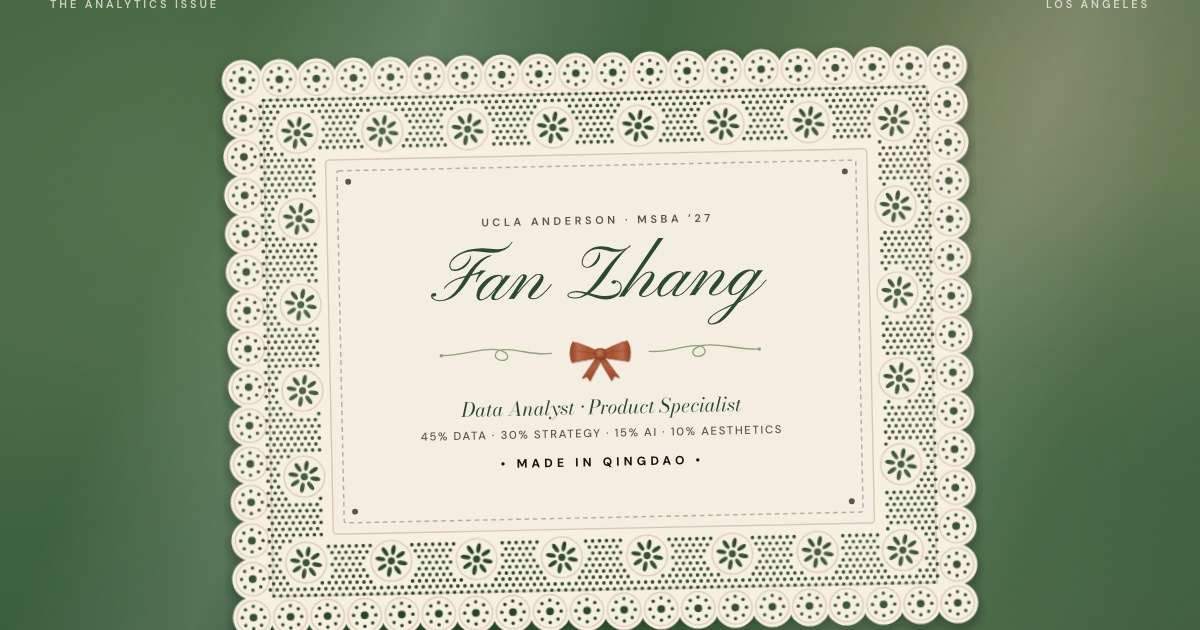
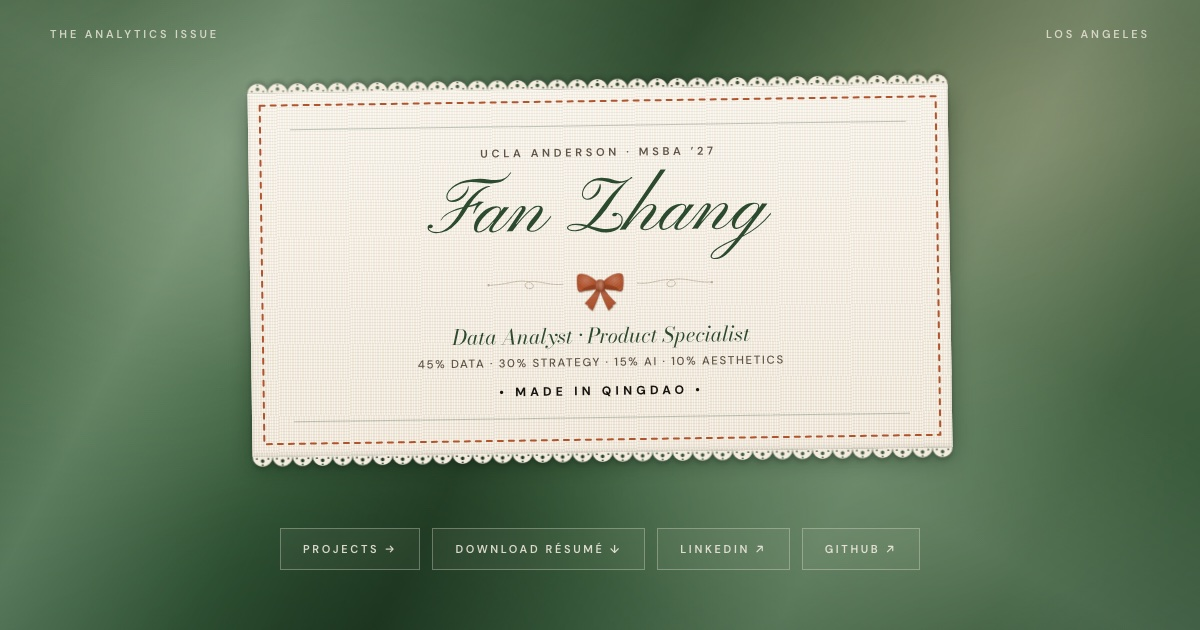
Cover: sewn-in clothing label, embroidered bow, satin background

diff --git a/index.html b/index.html
@@ -234,10 +234,10 @@ box-shadow:inset 0 1px 0 rgba(255,255,255,.35),inset 0 -1px 0 rgba(255,255,255,.
 .cover4 .casting3{margin:0}.cover4>*{min-width:0}.cover4 .ctas{display:flex;flex-wrap:wrap;row-gap:14px}
 @media (max-width:600px){.t-top{font-size:2.5cqw}.t-name{width:70%}.t-doing{font-size:3.05cqw}.t-comp{font-size:2.6cqw;letter-spacing:.08em;line-height:1.35;max-width:62cqw}.t-made{font-size:2.6cqw}.panel{gap:1.2cqw}}
 @media (max-width:900px){.cover4{grid-template-columns:1fr;gap:28px}.tag{transform:none}.satin{padding-bottom:40px}}
-.cbtns{display:flex;justify-content:center;flex-wrap:wrap;gap:12px;margin-top:40px}
+.cbtns{display:flex;justify-content:center;flex-wrap:wrap;gap:12px;margin-top:76px}
 .cbtns a{text-decoration:none;color:rgba(244,237,225,.88);font:600 11px var(--sans);letter-spacing:.24em;text-transform:uppercase;padding:13px 22px;border:1px solid rgba(244,237,225,.32);background:rgba(244,237,225,.05);backdrop-filter:blur(2px);transition:background .2s,border-color .2s,color .2s}
 .cbtns a:hover{background:rgba(244,237,225,.14);border-color:rgba(244,237,225,.6);color:#fbf6ee}
-@media (max-width:600px){.cbtns{gap:10px;margin-top:28px}.cbtns a{padding:11px 14px;letter-spacing:.16em;font-size:10px}}
+@media (max-width:600px){.cbtns{gap:10px;margin-top:48px}.cbtns a{padding:11px 14px;letter-spacing:.16em;font-size:10px}}
 .sum4{border-top:1px solid var(--ink);border-bottom:1px solid var(--ink);padding:16px 0 20px}
 .sum4 .kick{display:block;color:var(--terra);margin-bottom:12px}
 .sum4 p{font:400 23px/1.55 var(--body);margin:0 0 10px}.sum4 p.by{font:italic 400 18px var(--body);color:var(--soft);margin:0}
@@ -259,34 +259,52 @@ box-shadow:inset 0 1px 0 rgba(255,255,255,.35),inset 0 -1px 0 rgba(255,255,255,.
 .fb .send{cursor:pointer;background:var(--paper);color:var(--ink);border:0;padding:14px 26px;font:700 11px var(--sans);letter-spacing:.22em;text-transform:uppercase}
 .fb .send:disabled{opacity:.6;cursor:default}
 .contact .fb .fbs{font:italic 400 17px var(--body);margin:14px 0 0;min-height:1.4em;opacity:.85}
+.tag.t2{aspect-ratio:auto;width:min(700px,92%);margin:48px auto 4px;transform:rotate(-.8deg)}
+.t2 .label{position:relative;padding:5.2cqw 6cqw 4.8cqw;background-color:#f4ede1;
+background-image:repeating-linear-gradient(0deg,rgba(94,84,70,.07) 0 1px,transparent 1px 3px),repeating-linear-gradient(90deg,rgba(255,255,255,.5) 0 1px,transparent 1px 2.5px),linear-gradient(180deg,#f7f1e6,#efe6d6);
+box-shadow:0 1px 0 rgba(255,255,255,.6) inset,0 -2px 4px rgba(94,84,70,.12) inset,0 10px 22px rgba(10,24,12,.35),0 2px 4px rgba(10,24,12,.25)}
+.t2 .label::before,.t2 .label::after{content:'';position:absolute;left:0;right:0;height:12px;background:url(lace-trim.svg) repeat-x;background-size:20px 12px;filter:drop-shadow(0 3px 2px rgba(10,24,12,.25))}
+.t2 .label::after{top:100%}.t2 .label::before{bottom:100%;transform:scaleY(-1)}
+.t2 .stitch{position:absolute;inset:0;width:100%;height:100%;pointer-events:none;overflow:visible}
+.t2 .stitch rect{x:12px;y:12px;width:calc(100% - 24px);height:calc(100% - 24px);fill:none;stroke:#a8441a;stroke-width:2;stroke-dasharray:5 6;stroke-linecap:round;opacity:.9}
+.t2 .panel{position:relative;inset:auto;border-top:1px solid rgba(44,74,46,.28);border-bottom:1px solid rgba(44,74,46,.28);padding:2.6cqw 0;gap:1cqw}
+.t2 .t-top{font-size:1.6cqw}.t2 .t-name{width:56%}.t2 .orn{color:#b9ab93}.t2 .orn .fl{width:11cqw}.t2 .orn .bow{width:8cqw}
+.t2 .t-doing{font-size:3cqw}.t2 .t-comp{font-size:1.65cqw}.t2 .t-made{font-size:1.75cqw}
+@media (max-width:600px){.t2 .label{padding:7cqw 6cqw}.t2 .t-top,.t2 .t-comp,.t2 .t-made{font-size:2.7cqw}.t2 .t-doing{font-size:3.6cqw}.t2 .t-name{width:72%}.t2 .stitch rect{x:8px;y:8px;width:calc(100% - 16px);height:calc(100% - 16px)}}
+.satin::before{background:radial-gradient(ellipse 70% 60% at 30% 20%,rgba(255,255,255,.10),transparent 70%),linear-gradient(160deg,rgba(44,74,46,.66),rgba(52,88,58,.56) 50%,rgba(34,64,42,.7));box-shadow:none}
+.satin::after{content:'';position:absolute;inset:0;z-index:-1;pointer-events:none;mix-blend-mode:soft-light;
+background:linear-gradient(118deg,transparent 8%,rgba(255,255,255,.55) 20%,transparent 34%,rgba(0,0,0,.45) 46%,transparent 58%,rgba(255,255,255,.4) 72%,transparent 86%),
+linear-gradient(28deg,transparent 30%,rgba(255,255,255,.3) 48%,transparent 66%)}
+.satin{box-shadow:inset 0 0 160px rgba(10,24,12,.35)}
 </style></head><body id="top">
 <div class="strip"><a href="#top" class="wm"><img src="pinyon-1.svg" alt="Fan Zhang"></a><nav><a href="#letter">Editor’s letter</a><a href="#cv">The CV</a><a href="#features">Features</a><a href="#letters">Letters</a></nav><a class="lock" href="https://fan0729.github.io/classnotes/" title="Fan’s Personal Matters (private)">🔒 Personal matters</a></div>
 <header class="front4">
  <div class="satin"><div class="wrap">
   <div class="issue3 lt"><span>The Analytics Issue</span><span>Los Angeles</span></div>
-  <div class="tag"><img class="lace" src="lace.svg" alt="">
+  <div class="tag t2"><div class="label"><svg class="stitch" aria-hidden="true"><rect/></svg>
    <div class="panel">
     <span class="t-top">UCLA Anderson · MSBA ’27</span>
     <img class="t-name" src="pinyon-1.svg" alt="Fan Zhang">
-    <div class="orn"><svg class="fl" viewBox="0 0 120 24" aria-hidden="true"><path d="M2 12 C30 12 44 4 62 7 C76 10 74 20 64 18 C56 16 58 7 68 7 C86 7 98 14 118 12" fill="none" stroke="currentColor" stroke-width="1.4" stroke-linecap="round"/><circle cx="2" cy="12" r="1.8" fill="currentColor"/></svg><svg class="bow" viewBox="0 0 64 42" aria-hidden="true"><defs>
-<clipPath id="cL"><path d="M29.4 12.4 C23 9.4 14.4 5.4 9 4.6 C6.2 9.6 5.8 16.2 8 21.6 C15 20.6 23 18.9 29.4 18.4Z"/></clipPath><clipPath id="cT"><path d="M29.6 16.8 L33.4 18.4 C30.4 25 26.4 31.2 22.8 37.6 L20.5 33.6 L16.2 35.4 C20.4 29.4 25 23 29.6 16.8Z"/></clipPath><clipPath id="cK"><rect x="27.6" y="10.6" width="8.8" height="9" rx="3"/></clipPath>
-<linearGradient id="vL" x1="1" y1="0" x2="0" y2="0"><stop offset="0" stop-color="#3a1205" stop-opacity=".34"/><stop offset=".3" stop-color="#fff" stop-opacity=".04"/><stop offset=".7" stop-color="#fff" stop-opacity=".2"/><stop offset="1" stop-color="#3a1205" stop-opacity=".1"/></linearGradient>
-<linearGradient id="vT" x1="0" y1="0" x2="0" y2="1"><stop offset="0" stop-color="#3a1205" stop-opacity=".4"/><stop offset=".5" stop-color="#fff" stop-opacity=".1"/><stop offset="1" stop-color="#3a1205" stop-opacity=".1"/></linearGradient>
-<radialGradient id="vK" cx=".45" cy=".38" r=".7"><stop offset="0" stop-color="#fff" stop-opacity=".26"/><stop offset="1" stop-color="#3a1205" stop-opacity=".32"/></radialGradient>
-<filter id="emb" x="-15%" y="-15%" width="130%" height="140%"><feDropShadow dx=".3" dy=".8" stdDeviation=".5" flood-color="#2a1205" flood-opacity=".33"/></filter>
+    <div class="orn"><svg class="fl" viewBox="0 0 120 24" aria-hidden="true"><path d="M2 12 C30 12 44 4 62 7 C76 10 74 20 64 18 C56 16 58 7 68 7 C86 7 98 14 118 12" fill="none" stroke="currentColor" stroke-width="1.3" stroke-linecap="round" stroke-dasharray="2.4 1.8"/><circle cx="2" cy="12" r="1.8" fill="currentColor"/></svg><svg class="bow" viewBox="10 6 60 46" aria-hidden="true"><defs>
+<pattern id="pL" width="1.5" height="4" patternUnits="userSpaceOnUse" patternTransform="rotate(68)"><rect width="1.5" height="4" fill="#ad4620"/><rect width=".32" height="4" fill="#5e230b" fill-opacity=".55"/><rect x=".55" width=".5" height="4" fill="#f0a27a" fill-opacity=".38"/></pattern><pattern id="pF" width="1.5" height="4" patternUnits="userSpaceOnUse" patternTransform="rotate(30)"><rect width="1.5" height="4" fill="#ad4620"/><rect width=".32" height="4" fill="#5e230b" fill-opacity=".55"/><rect x=".55" width=".5" height="4" fill="#f0a27a" fill-opacity=".38"/></pattern><pattern id="pT" width="1.5" height="4" patternUnits="userSpaceOnUse" patternTransform="rotate(38)"><rect width="1.5" height="4" fill="#ad4620"/><rect width=".32" height="4" fill="#5e230b" fill-opacity=".55"/><rect x=".55" width=".5" height="4" fill="#f0a27a" fill-opacity=".38"/></pattern><pattern id="pK" width="1.3" height="4" patternUnits="userSpaceOnUse" patternTransform="rotate(0)"><rect width="1.3" height="4" fill="#ad4620"/><rect width=".32" height="4" fill="#5e230b" fill-opacity=".55"/><rect x=".55" width=".5" height="4" fill="#f0a27a" fill-opacity=".38"/></pattern>
+<radialGradient id="gL" cx=".45" cy=".35" r=".8"><stop offset="0" stop-color="#fff" stop-opacity=".22"/><stop offset=".6" stop-color="#fff" stop-opacity="0"/><stop offset="1" stop-color="#3a1205" stop-opacity=".3"/></radialGradient>
+<linearGradient id="gT" x1="0" y1="0" x2="0" y2="1"><stop offset="0" stop-color="#3a1205" stop-opacity=".42"/><stop offset=".45" stop-color="#fff" stop-opacity=".06"/><stop offset="1" stop-color="#3a1205" stop-opacity=".12"/></linearGradient>
+<radialGradient id="gK" cx=".45" cy=".4" r=".7"><stop offset="0" stop-color="#fff" stop-opacity=".25"/><stop offset="1" stop-color="#3a1205" stop-opacity=".35"/></radialGradient>
+<filter id="emb" x="-15%" y="-15%" width="130%" height="140%"><feDropShadow dx=".3" dy=".9" stdDeviation=".55" flood-color="#2a1205" flood-opacity=".35"/></filter>
 <g id="half">
-<g clip-path="url(#cT)"><rect width="64" height="42" fill="#a8441a"/><g stroke-width=".55"><line x1="32" y1="15" x2="27.55" y2="46.69" stroke="#933a17"/><line x1="32" y1="15" x2="26.99" y2="46.61" stroke="#c0603a"/><line x1="32" y1="15" x2="26.44" y2="46.51" stroke="#933a17"/><line x1="32" y1="15" x2="25.89" y2="46.41" stroke="#c0603a"/><line x1="32" y1="15" x2="25.35" y2="46.30" stroke="#933a17"/><line x1="32" y1="15" x2="24.80" y2="46.18" stroke="#c0603a"/><line x1="32" y1="15" x2="24.26" y2="46.05" stroke="#933a17"/><line x1="32" y1="15" x2="23.72" y2="45.91" stroke="#c0603a"/><line x1="32" y1="15" x2="23.18" y2="45.76" stroke="#933a17"/><line x1="32" y1="15" x2="22.64" y2="45.60" stroke="#c0603a"/><line x1="32" y1="15" x2="22.11" y2="45.43" stroke="#933a17"/><line x1="32" y1="15" x2="21.58" y2="45.26" stroke="#c0603a"/><line x1="32" y1="15" x2="21.06" y2="45.07" stroke="#933a17"/><line x1="32" y1="15" x2="20.53" y2="44.87" stroke="#c0603a"/><line x1="32" y1="15" x2="20.01" y2="44.67" stroke="#933a17"/><line x1="32" y1="15" x2="19.50" y2="44.46" stroke="#c0603a"/><line x1="32" y1="15" x2="18.98" y2="44.23" stroke="#933a17"/><line x1="32" y1="15" x2="18.48" y2="44.00" stroke="#c0603a"/><line x1="32" y1="15" x2="17.97" y2="43.76" stroke="#933a17"/><line x1="32" y1="15" x2="17.47" y2="43.51" stroke="#c0603a"/><line x1="32" y1="15" x2="16.98" y2="43.25" stroke="#933a17"/><line x1="32" y1="15" x2="16.49" y2="42.99" stroke="#c0603a"/><line x1="32" y1="15" x2="16.00" y2="42.71" stroke="#933a17"/><line x1="32" y1="15" x2="15.52" y2="42.43" stroke="#c0603a"/><line x1="32" y1="15" x2="15.04" y2="42.14" stroke="#933a17"/><line x1="32" y1="15" x2="14.57" y2="41.84" stroke="#c0603a"/><line x1="32" y1="15" x2="14.11" y2="41.53" stroke="#933a17"/><line x1="32" y1="15" x2="13.65" y2="41.21" stroke="#c0603a"/><line x1="32" y1="15" x2="13.19" y2="40.89" stroke="#933a17"/><line x1="32" y1="15" x2="12.74" y2="40.56" stroke="#c0603a"/><line x1="32" y1="15" x2="12.30" y2="40.22" stroke="#933a17"/><line x1="32" y1="15" x2="11.86" y2="39.87" stroke="#c0603a"/><line x1="32" y1="15" x2="11.43" y2="39.51" stroke="#933a17"/><line x1="32" y1="15" x2="11.01" y2="39.15" stroke="#c0603a"/><line x1="32" y1="15" x2="10.59" y2="38.78" stroke="#933a17"/><line x1="32" y1="15" x2="10.18" y2="38.40" stroke="#c0603a"/><line x1="32" y1="15" x2="9.77" y2="38.02" stroke="#933a17"/><line x1="32" y1="15" x2="9.37" y2="37.63" stroke="#c0603a"/><line x1="32" y1="15" x2="8.98" y2="37.23" stroke="#933a17"/><line x1="32" y1="15" x2="8.60" y2="36.82" stroke="#c0603a"/><line x1="32" y1="15" x2="8.22" y2="36.41" stroke="#933a17"/><line x1="32" y1="15" x2="7.85" y2="35.99" stroke="#c0603a"/><line x1="32" y1="15" x2="7.49" y2="35.57" stroke="#933a17"/><line x1="32" y1="15" x2="7.13" y2="35.14" stroke="#c0603a"/><line x1="32" y1="15" x2="6.78" y2="34.70" stroke="#933a17"/></g><path d="M29.6 16.8 L33.4 18.4 C30.4 25 26.4 31.2 22.8 37.6 L20.5 33.6 L16.2 35.4 C20.4 29.4 25 23 29.6 16.8Z" fill="url(#vT)"/></g>
-<g clip-path="url(#cL)"><rect width="64" height="42" fill="#a8441a"/><g stroke-width=".55"><line x1="32" y1="15" x2="6.02" y2="30.00" stroke="#933a17"/><line x1="32" y1="15" x2="5.81" y2="29.63" stroke="#c0603a"/><line x1="32" y1="15" x2="5.60" y2="29.26" stroke="#933a17"/><line x1="32" y1="15" x2="5.40" y2="28.88" stroke="#c0603a"/><line x1="32" y1="15" x2="5.21" y2="28.50" stroke="#933a17"/><line x1="32" y1="15" x2="5.02" y2="28.12" stroke="#c0603a"/><line x1="32" y1="15" x2="4.84" y2="27.74" stroke="#933a17"/><line x1="32" y1="15" x2="4.66" y2="27.35" stroke="#c0603a"/><line x1="32" y1="15" x2="4.49" y2="26.96" stroke="#933a17"/><line x1="32" y1="15" x2="4.32" y2="26.57" stroke="#c0603a"/><line x1="32" y1="15" x2="4.16" y2="26.18" stroke="#933a17"/><line x1="32" y1="15" x2="4.00" y2="25.78" stroke="#c0603a"/><line x1="32" y1="15" x2="3.85" y2="25.38" stroke="#933a17"/><line x1="32" y1="15" x2="3.71" y2="24.98" stroke="#c0603a"/><line x1="32" y1="15" x2="3.57" y2="24.58" stroke="#933a17"/><line x1="32" y1="15" x2="3.44" y2="24.18" stroke="#c0603a"/><line x1="32" y1="15" x2="3.31" y2="23.77" stroke="#933a17"/><line x1="32" y1="15" x2="3.19" y2="23.36" stroke="#c0603a"/><line x1="32" y1="15" x2="3.07" y2="22.95" stroke="#933a17"/><line x1="32" y1="15" x2="2.96" y2="22.54" stroke="#c0603a"/><line x1="32" y1="15" x2="2.86" y2="22.13" stroke="#933a17"/><line x1="32" y1="15" x2="2.76" y2="21.72" stroke="#c0603a"/><line x1="32" y1="15" x2="2.67" y2="21.30" stroke="#933a17"/><line x1="32" y1="15" x2="2.58" y2="20.88" stroke="#c0603a"/><line x1="32" y1="15" x2="2.50" y2="20.47" stroke="#933a17"/><line x1="32" y1="15" x2="2.43" y2="20.05" stroke="#c0603a"/><line x1="32" y1="15" x2="2.36" y2="19.63" stroke="#933a17"/><line x1="32" y1="15" x2="2.30" y2="19.21" stroke="#c0603a"/><line x1="32" y1="15" x2="2.24" y2="18.79" stroke="#933a17"/><line x1="32" y1="15" x2="2.19" y2="18.36" stroke="#c0603a"/><line x1="32" y1="15" x2="2.14" y2="17.94" stroke="#933a17"/><line x1="32" y1="15" x2="2.11" y2="17.52" stroke="#c0603a"/><line x1="32" y1="15" x2="2.07" y2="17.09" stroke="#933a17"/><line x1="32" y1="15" x2="2.05" y2="16.67" stroke="#c0603a"/><line x1="32" y1="15" x2="2.03" y2="16.24" stroke="#933a17"/><line x1="32" y1="15" x2="2.01" y2="15.82" stroke="#c0603a"/><line x1="32" y1="15" x2="2.00" y2="15.39" stroke="#933a17"/><line x1="32" y1="15" x2="2.00" y2="14.97" stroke="#c0603a"/><line x1="32" y1="15" x2="2.00" y2="14.54" stroke="#933a17"/><line x1="32" y1="15" x2="2.01" y2="14.12" stroke="#c0603a"/><line x1="32" y1="15" x2="2.03" y2="13.69" stroke="#933a17"/><line x1="32" y1="15" x2="2.05" y2="13.27" stroke="#c0603a"/><line x1="32" y1="15" x2="2.08" y2="12.84" stroke="#933a17"/><line x1="32" y1="15" x2="2.11" y2="12.42" stroke="#c0603a"/><line x1="32" y1="15" x2="2.15" y2="11.99" stroke="#933a17"/><line x1="32" y1="15" x2="2.20" y2="11.57" stroke="#c0603a"/><line x1="32" y1="15" x2="2.25" y2="11.15" stroke="#933a17"/><line x1="32" y1="15" x2="2.31" y2="10.73" stroke="#c0603a"/><line x1="32" y1="15" x2="2.37" y2="10.31" stroke="#933a17"/><line x1="32" y1="15" x2="2.44" y2="9.89" stroke="#c0603a"/><line x1="32" y1="15" x2="2.51" y2="9.47" stroke="#933a17"/><line x1="32" y1="15" x2="2.60" y2="9.05" stroke="#c0603a"/><line x1="32" y1="15" x2="2.68" y2="8.63" stroke="#933a17"/><line x1="32" y1="15" x2="2.78" y2="8.22" stroke="#c0603a"/><line x1="32" y1="15" x2="2.88" y2="7.81" stroke="#933a17"/><line x1="32" y1="15" x2="2.98" y2="7.39" stroke="#c0603a"/><line x1="32" y1="15" x2="3.09" y2="6.98" stroke="#933a17"/><line x1="32" y1="15" x2="3.21" y2="6.57" stroke="#c0603a"/><line x1="32" y1="15" x2="3.33" y2="6.17" stroke="#933a17"/><line x1="32" y1="15" x2="3.46" y2="5.76" stroke="#c0603a"/><line x1="32" y1="15" x2="3.59" y2="5.36" stroke="#933a17"/><line x1="32" y1="15" x2="3.73" y2="4.95" stroke="#c0603a"/><line x1="32" y1="15" x2="3.88" y2="4.56" stroke="#933a17"/><line x1="32" y1="15" x2="4.03" y2="4.16" stroke="#c0603a"/><line x1="32" y1="15" x2="4.18" y2="3.76" stroke="#933a17"/><line x1="32" y1="15" x2="4.35" y2="3.37" stroke="#c0603a"/><line x1="32" y1="15" x2="4.51" y2="2.98" stroke="#933a17"/><line x1="32" y1="15" x2="4.69" y2="2.59" stroke="#c0603a"/><line x1="32" y1="15" x2="4.87" y2="2.20" stroke="#933a17"/><line x1="32" y1="15" x2="5.05" y2="1.82" stroke="#c0603a"/><line x1="32" y1="15" x2="5.24" y2="1.44" stroke="#933a17"/><line x1="32" y1="15" x2="5.44" y2="1.06" stroke="#c0603a"/><line x1="32" y1="15" x2="5.64" y2="0.69" stroke="#933a17"/><line x1="32" y1="15" x2="5.84" y2="0.31" stroke="#c0603a"/><line x1="32" y1="15" x2="6.05" y2="-0.06" stroke="#933a17"/><line x1="32" y1="15" x2="6.27" y2="-0.42" stroke="#c0603a"/><line x1="32" y1="15" x2="6.49" y2="-0.79" stroke="#933a17"/><line x1="32" y1="15" x2="6.72" y2="-1.15" stroke="#c0603a"/><line x1="32" y1="15" x2="6.95" y2="-1.50" stroke="#933a17"/><line x1="32" y1="15" x2="7.18" y2="-1.86" stroke="#c0603a"/><line x1="32" y1="15" x2="7.43" y2="-2.21" stroke="#933a17"/></g><path d="M29.4 12.4 C23 9.4 14.4 5.4 9 4.6 C6.2 9.6 5.8 16.2 8 21.6 C15 20.6 23 18.9 29.4 18.4Z" fill="url(#vL)"/>
-<path d="M29 15.2 C23 13.8 16 12.4 10.5 12.6" stroke="#6e2a0e" stroke-opacity=".35" stroke-width=".8" fill="none" stroke-linecap="round"/></g>
-<g fill="none" stroke="#7a2f11" stroke-opacity=".5" stroke-width=".45"><path d="M29.4 12.4 C23 9.4 14.4 5.4 9 4.6 C6.2 9.6 5.8 16.2 8 21.6 C15 20.6 23 18.9 29.4 18.4Z"/><path d="M29.6 16.8 L33.4 18.4 C30.4 25 26.4 31.2 22.8 37.6 L20.5 33.6 L16.2 35.4 C20.4 29.4 25 23 29.6 16.8Z"/></g>
+<path d="M36.6 25.8 C33.6 30.4 29 35.8 23.2 41.6 L27.4 44.2 L26.6 45.4 L31.4 49.4 C34.6 43 37.6 35.6 40.2 28Z" fill="url(#pT)"/><path d="M36.6 25.8 C33.6 30.4 29 35.8 23.2 41.6 L27.4 44.2 L26.6 45.4 L31.4 49.4 C34.6 43 37.6 35.6 40.2 28Z" fill="url(#gT)"/>
+<path d="M36 18 C32 14 26 10.5 20 10 C17 9.8 15.6 11 15.4 13.5 C15.1 17 15.1 22 15.8 26 C16.2 28.8 18 29.6 21 28.6 C26 27 31.5 25.5 36 25Z" fill="url(#pL)"/><path d="M36 18 C32 14 26 10.5 20 10 C17 9.8 15.6 11 15.4 13.5 C15.1 17 15.1 22 15.8 26 C16.2 28.8 18 29.6 21 28.6 C26 27 31.5 25.5 36 25Z" fill="url(#gL)"/>
+<path d="M36 22.4 C31 22.3 25 24.4 20.4 27.6 C24.5 28.4 31 27 36 26.2Z" fill="url(#pF)"/><path d="M36 22.4 C31 22.3 25 24.4 20.4 27.6 C24.5 28.4 31 27 36 26.2Z" fill="#3a1205" fill-opacity=".22"/>
+<path d="M35.6 22.2 C30.5 22 24.6 24 20.2 27.2" stroke="#4a1a07" stroke-opacity=".45" stroke-width=".7" fill="none" stroke-linecap="round"/>
+<g fill="none" stroke="#6e2a0e" stroke-opacity=".45" stroke-width=".4"><path d="M36 18 C32 14 26 10.5 20 10 C17 9.8 15.6 11 15.4 13.5 C15.1 17 15.1 22 15.8 26 C16.2 28.8 18 29.6 21 28.6 C26 27 31.5 25.5 36 25Z"/><path d="M36.6 25.8 C33.6 30.4 29 35.8 23.2 41.6 L27.4 44.2 L26.6 45.4 L31.4 49.4 C34.6 43 37.6 35.6 40.2 28Z"/></g>
 </g></defs>
-<g filter="url(#emb)"><use href="#half"/><use href="#half" transform="translate(64 0) scale(-1 1)"/>
-<g clip-path="url(#cK)"><rect width="64" height="42" fill="#a8441a"/><g stroke-width=".45"><line x1="27.20" y1="9" x2="27.20" y2="21" stroke="#933a17"/><line x1="27.90" y1="9" x2="27.90" y2="21" stroke="#c0603a"/><line x1="28.60" y1="9" x2="28.60" y2="21" stroke="#933a17"/><line x1="29.30" y1="9" x2="29.30" y2="21" stroke="#c0603a"/><line x1="30.00" y1="9" x2="30.00" y2="21" stroke="#933a17"/><line x1="30.70" y1="9" x2="30.70" y2="21" stroke="#c0603a"/><line x1="31.40" y1="9" x2="31.40" y2="21" stroke="#933a17"/><line x1="32.10" y1="9" x2="32.10" y2="21" stroke="#c0603a"/><line x1="32.80" y1="9" x2="32.80" y2="21" stroke="#933a17"/><line x1="33.50" y1="9" x2="33.50" y2="21" stroke="#c0603a"/><line x1="34.20" y1="9" x2="34.20" y2="21" stroke="#933a17"/><line x1="34.90" y1="9" x2="34.90" y2="21" stroke="#c0603a"/><line x1="35.60" y1="9" x2="35.60" y2="21" stroke="#933a17"/><line x1="36.30" y1="9" x2="36.30" y2="21" stroke="#c0603a"/><line x1="37.00" y1="9" x2="37.00" y2="21" stroke="#933a17"/></g><rect x="27.6" y="10.6" width="8.8" height="9" fill="url(#vK)"/></g>
-<rect x="27.6" y="10.6" width="8.8" height="9" rx="3" fill="none" stroke="#7a2f11" stroke-opacity=".5" stroke-width=".45"/></g></svg><span class="flip"><svg class="fl" viewBox="0 0 120 24" aria-hidden="true"><path d="M2 12 C30 12 44 4 62 7 C76 10 74 20 64 18 C56 16 58 7 68 7 C86 7 98 14 118 12" fill="none" stroke="currentColor" stroke-width="1.4" stroke-linecap="round"/><circle cx="2" cy="12" r="1.8" fill="currentColor"/></svg></span></div>
+<g filter="url(#emb)"><use href="#half"/><use href="#half" transform="translate(80 0) scale(-1 1)"/>
+<rect x="35" y="16.4" width="10" height="12.6" rx="4.6" fill="url(#pK)"/><rect x="35" y="16.4" width="10" height="12.6" rx="4.6" fill="url(#gK)"/>
+<rect x="35" y="16.4" width="10" height="12.6" rx="4.6" fill="none" stroke="#6e2a0e" stroke-opacity=".5" stroke-width=".4"/></g></svg><span class="flip"><svg class="fl" viewBox="0 0 120 24" aria-hidden="true"><path d="M2 12 C30 12 44 4 62 7 C76 10 74 20 64 18 C56 16 58 7 68 7 C86 7 98 14 118 12" fill="none" stroke="currentColor" stroke-width="1.3" stroke-linecap="round" stroke-dasharray="2.4 1.8"/><circle cx="2" cy="12" r="1.8" fill="currentColor"/></svg></span></div>
     <span class="t-doing">Data Analyst · Product Specialist</span>
     <span class="t-comp">45% data · 30% strategy · 15% AI · 10% aesthetics</span>
     <span class="t-made">• Made in Qingdao •</span>
-   </div></div>
+   </div></div></div>
   <div class="cbtns"><a href="#features">Projects →</a><a href="Fan_Zhang_Resume.pdf" download>Download résumé ↓</a><a href="https://www.linkedin.com/in/fan-zhang-analyst/" target="_blank" rel="noopener">LinkedIn ↗</a><a href="https://github.com/fan0729" target="_blank" rel="noopener">GitHub ↗</a></div>
  </div></div>
  </header>

diff --git a/README.md b/README.md
@@ -6,7 +6,7 @@ UCLA Anderson MSBA ’27. I turn messy data into decisions people actually use, 
 
 ## What’s on the site
 
-- **Cover:** a lace clothing label with name, roles and “Made in Qingdao”, plus quick links
+- **Cover:** a sewn-in clothing label with name, roles and “Made in Qingdao”, plus quick links
 - **Editor’s letter:** four things about me
 - **Projects:** A/B testing framework, Landfall (team hackathon app), a material handbook tool, and Fan’s Personal Matters
 - **Experience & education:** WTL Design, Los Angeles Apparel, USC research, UCLA Anderson and USC
@@ -21,7 +21,7 @@ A single static page styled like a magazine issue, with no build step: `index.ht
 |---|---|
 | `index.html` | The whole site |
 | `img/` | Project images, organization logos and the link-preview image (`og.jpg`) |
-| `lace.svg` | The lace label on the cover |
+| `lace-trim.svg` | The lace edge on the cover label |
 | `pinyon-1.svg` | The script “Fan Zhang” wordmark |
 | `Fan_Zhang_Resume.pdf` | The résumé the download buttons serve |
 | `favicon.svg`, `favicon.png`, `apple-touch-icon.png` | The FZ logo |
